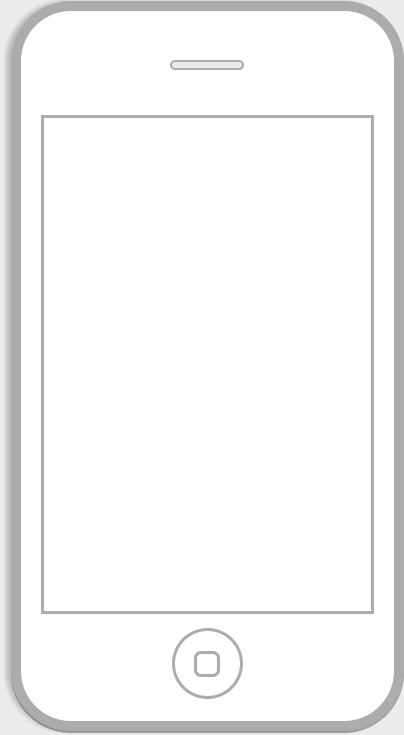
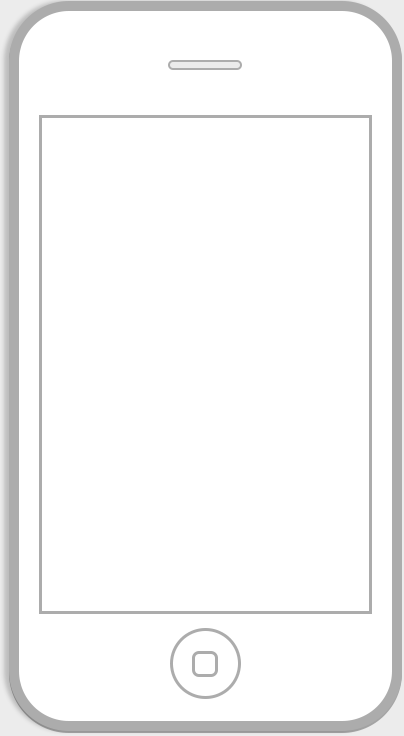
VTK-3321

diff --git a/src/main/resources/web/themes/default/default.css b/src/main/resources/web/themes/default/default.css
@@ -2094,7 +2094,7 @@ body#vrtx-preview.js #app-content #main {
   background: transparent url(images/preview-mobile-bg.png) no-repeat 0 0;
   height: 745px;
   width: 400px;
-  margin: -95px auto 0;
+  margin: -115px auto 0;
   display: block;
   position: relative;
   top: 0px;
@@ -2134,9 +2134,9 @@ body#vrtx-preview.js #app-content #main {
 
 /* Move shadow below mobile */
 .mobile.horizontal.change-bg #previewIframeWrapper #previewIframeMobileBg {
-  background-image: url(images/preview-mobile-bg-horizontal.png);
+  background: transparent url(images/preview-mobile-bg-horizontal.png) no-repeat -2px 0;
   left: 4px;
-  top: -163px;
+  top: -167px;
   -webkit-transition: none;
   -moz-transition: none;
   -ms-transition: none;
@@ -2180,7 +2180,7 @@ body#vrtx-preview.js #app-content #main {
   padding-left: 24px;
   background: #ececec url(images/refresh.png) no-repeat center left;
   font-size: 1.15em;
-  top: -140px;
+  top: -150px;
   position: relative;
 }
 
